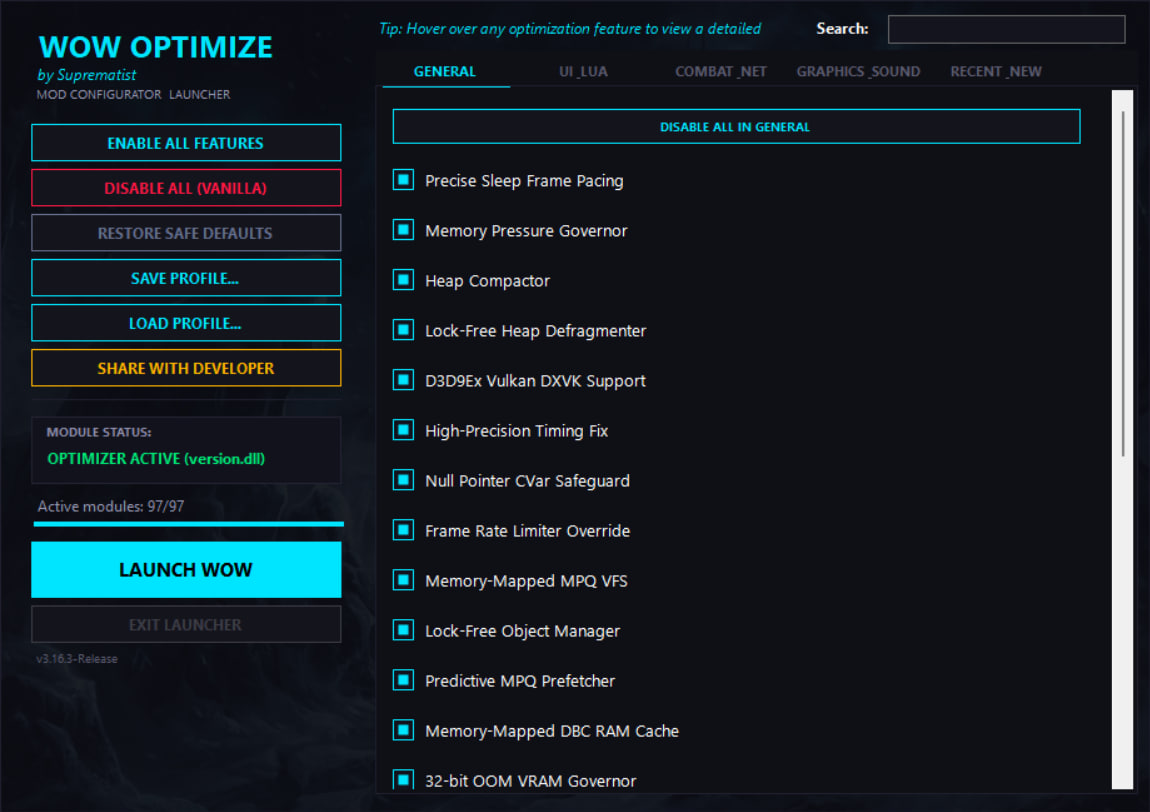
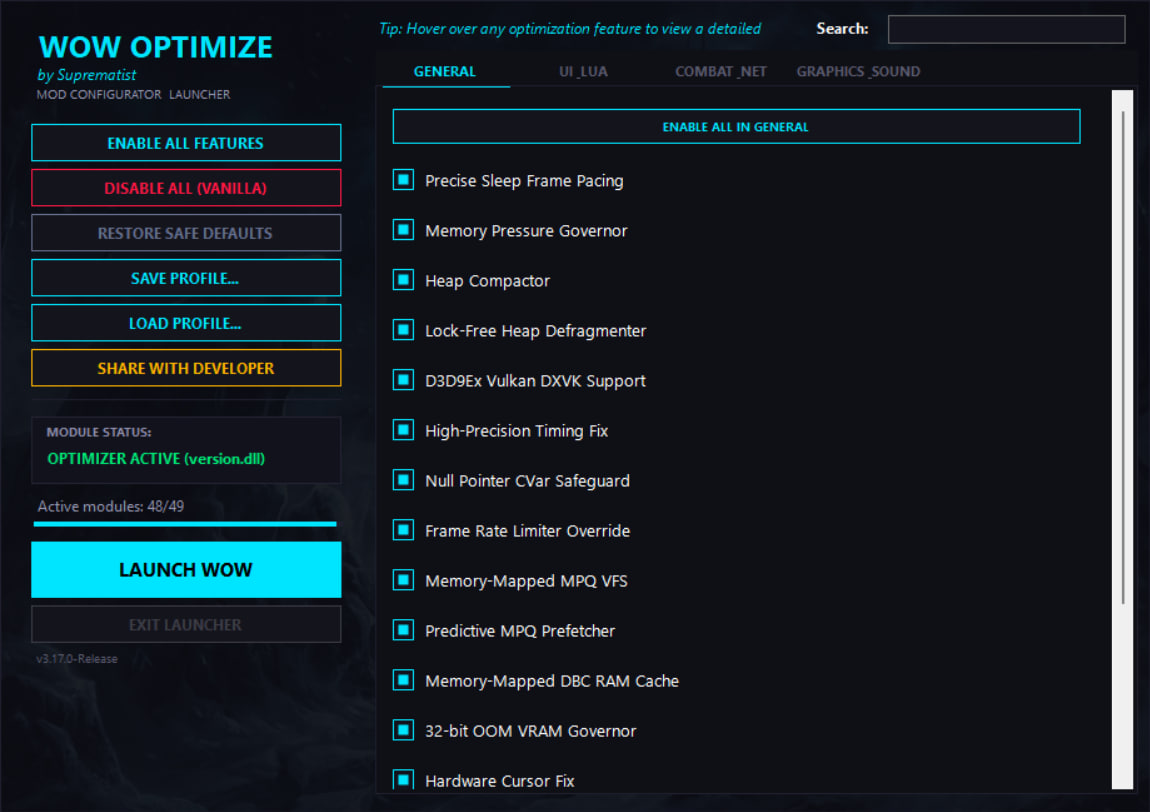
docs: Add the two fixes that landed after the notes were written
The overlay flicker above ~120 fps and the smushed addon list after a reload were
both fixed for 3.17.0 but missing from the Fixed list, since the notes predate
them. The overlay one is confirmed by the tester who reported it.

diff --git a/README.md b/README.md
@@ -47,6 +47,8 @@ were not fixed yet. This release exists because of that. Thank you.
 - Multi-second freezes during addon loading and `/reload`
 - Async frustum culling no longer makes objects pop in and out at the wrong distance, or models flicker at the draw distance, above ~125 fps
 - Loading-screen detection no longer requires the `!LuaBoost` addon — it now works on any install, and the initial login load is covered too
+- Screen flicker and darkening with an overlay running (RTSS, Afterburner, Steam) above ~120 fps. The D3D9 render-state cache was cleared on a timer capped near 125 times a second instead of once per frame, so past that frame rate it stopped keeping up and the device held whatever state the overlay left behind
+- Addon list rendering with overlapping text after a `/reload`, and those entries refusing to toggle
 - The end of the session log is no longer lost when the game exits
 
 **Faster**
